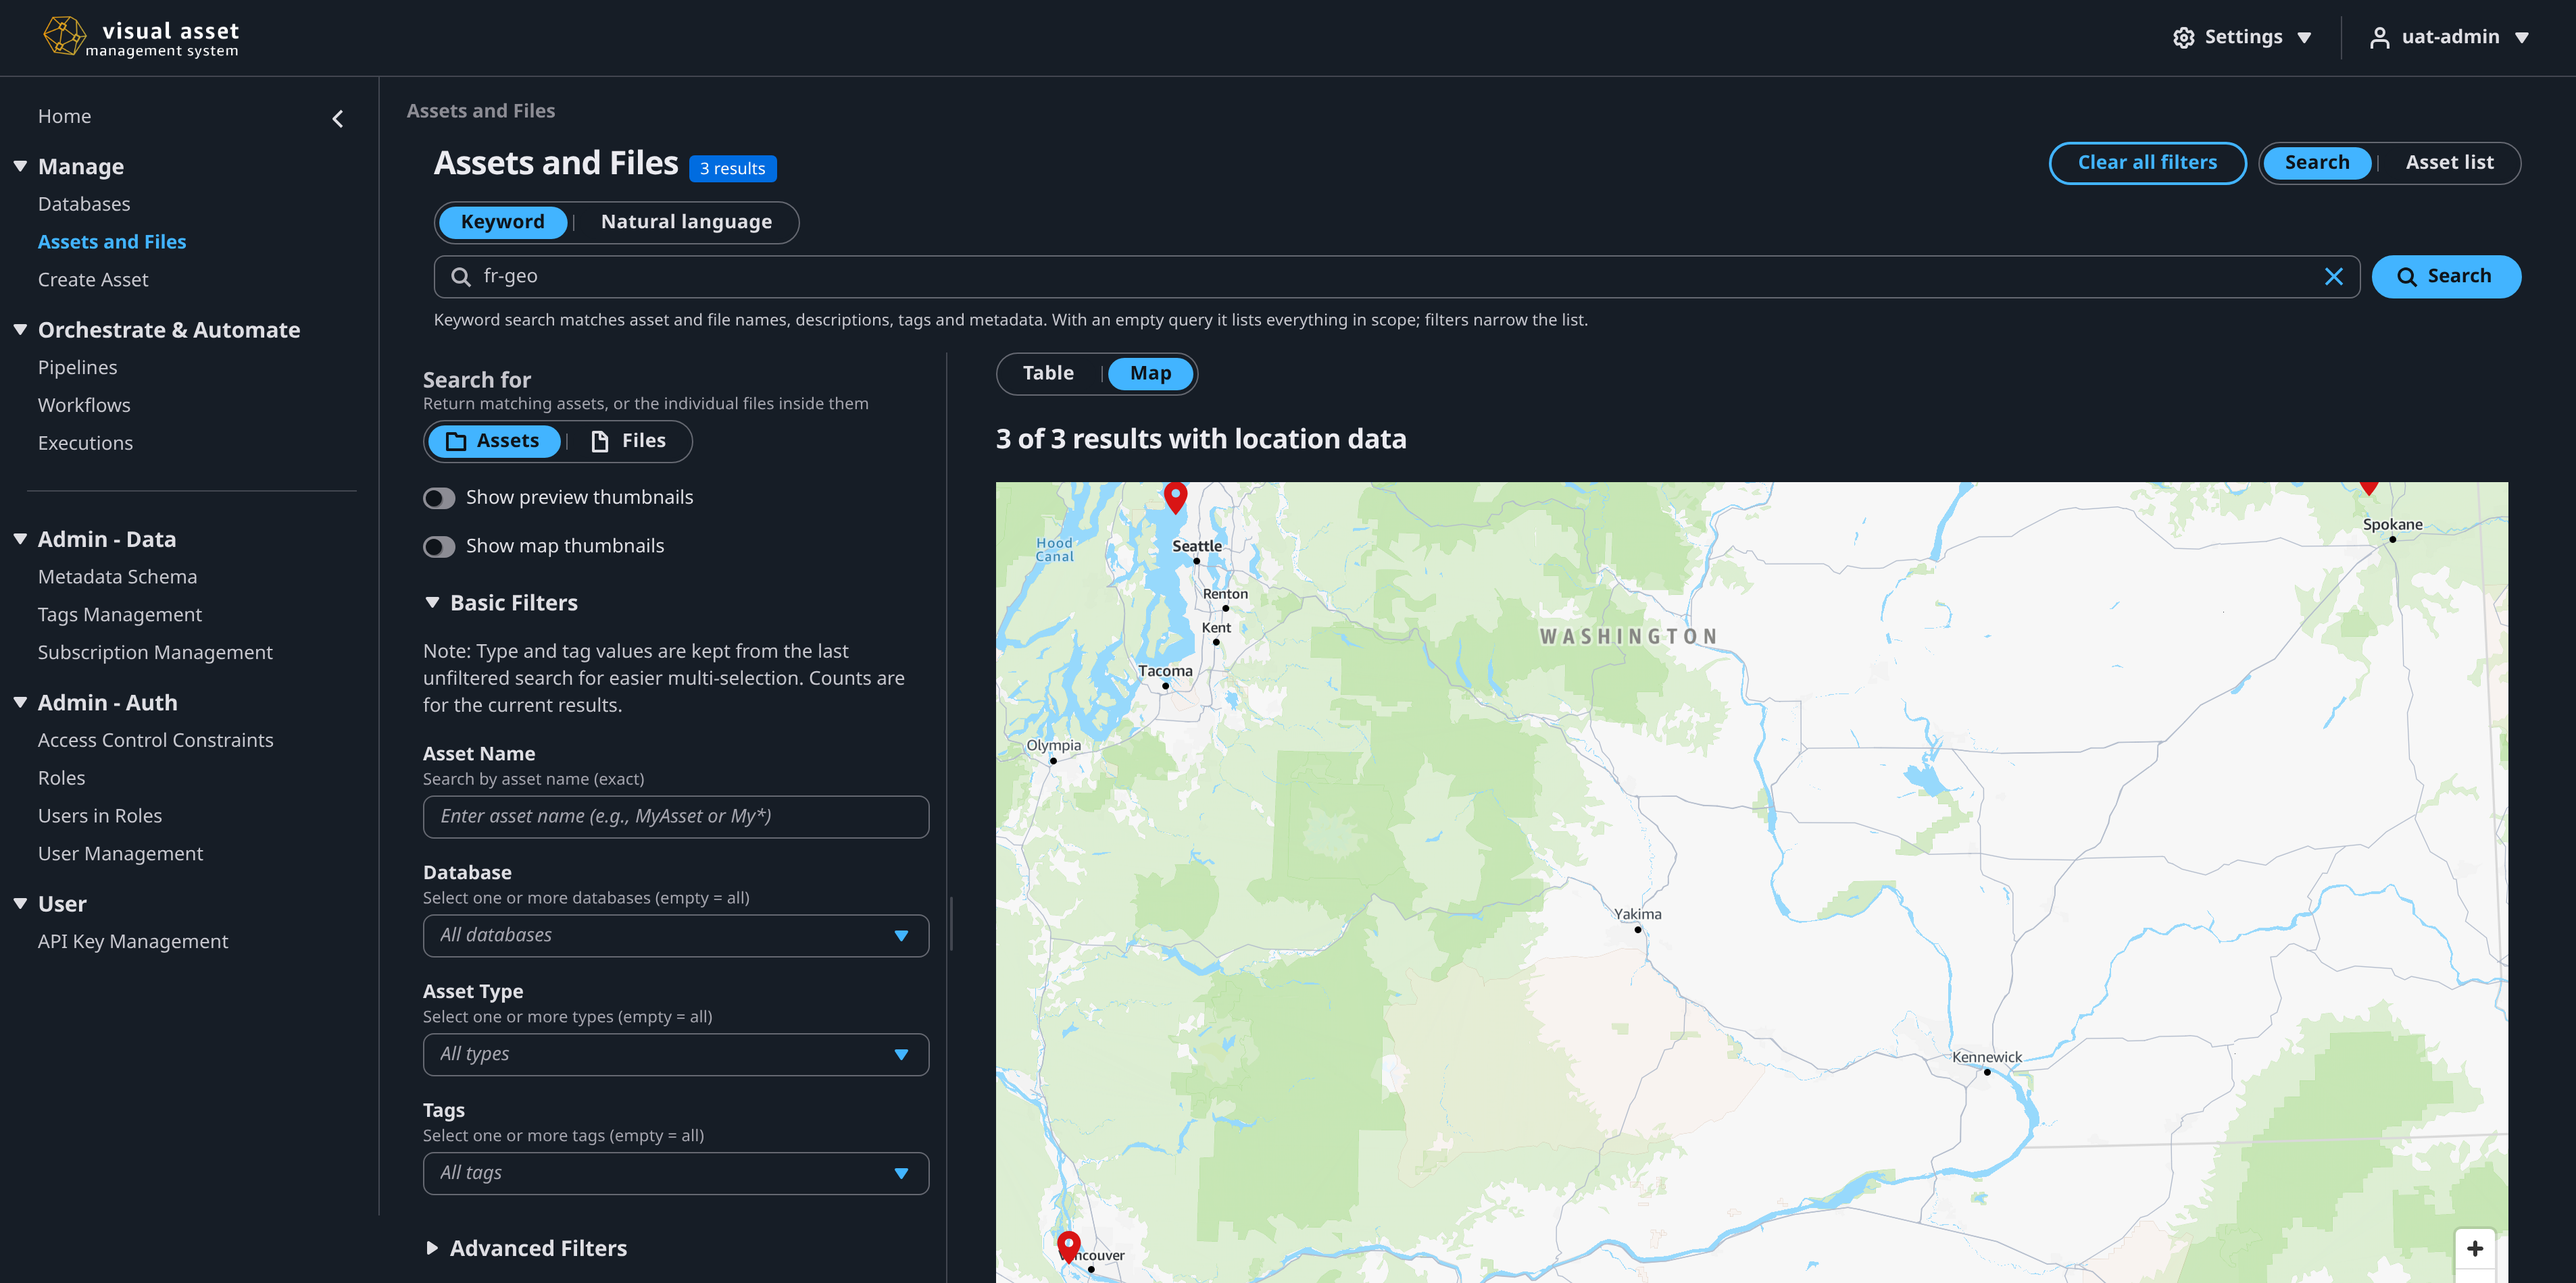
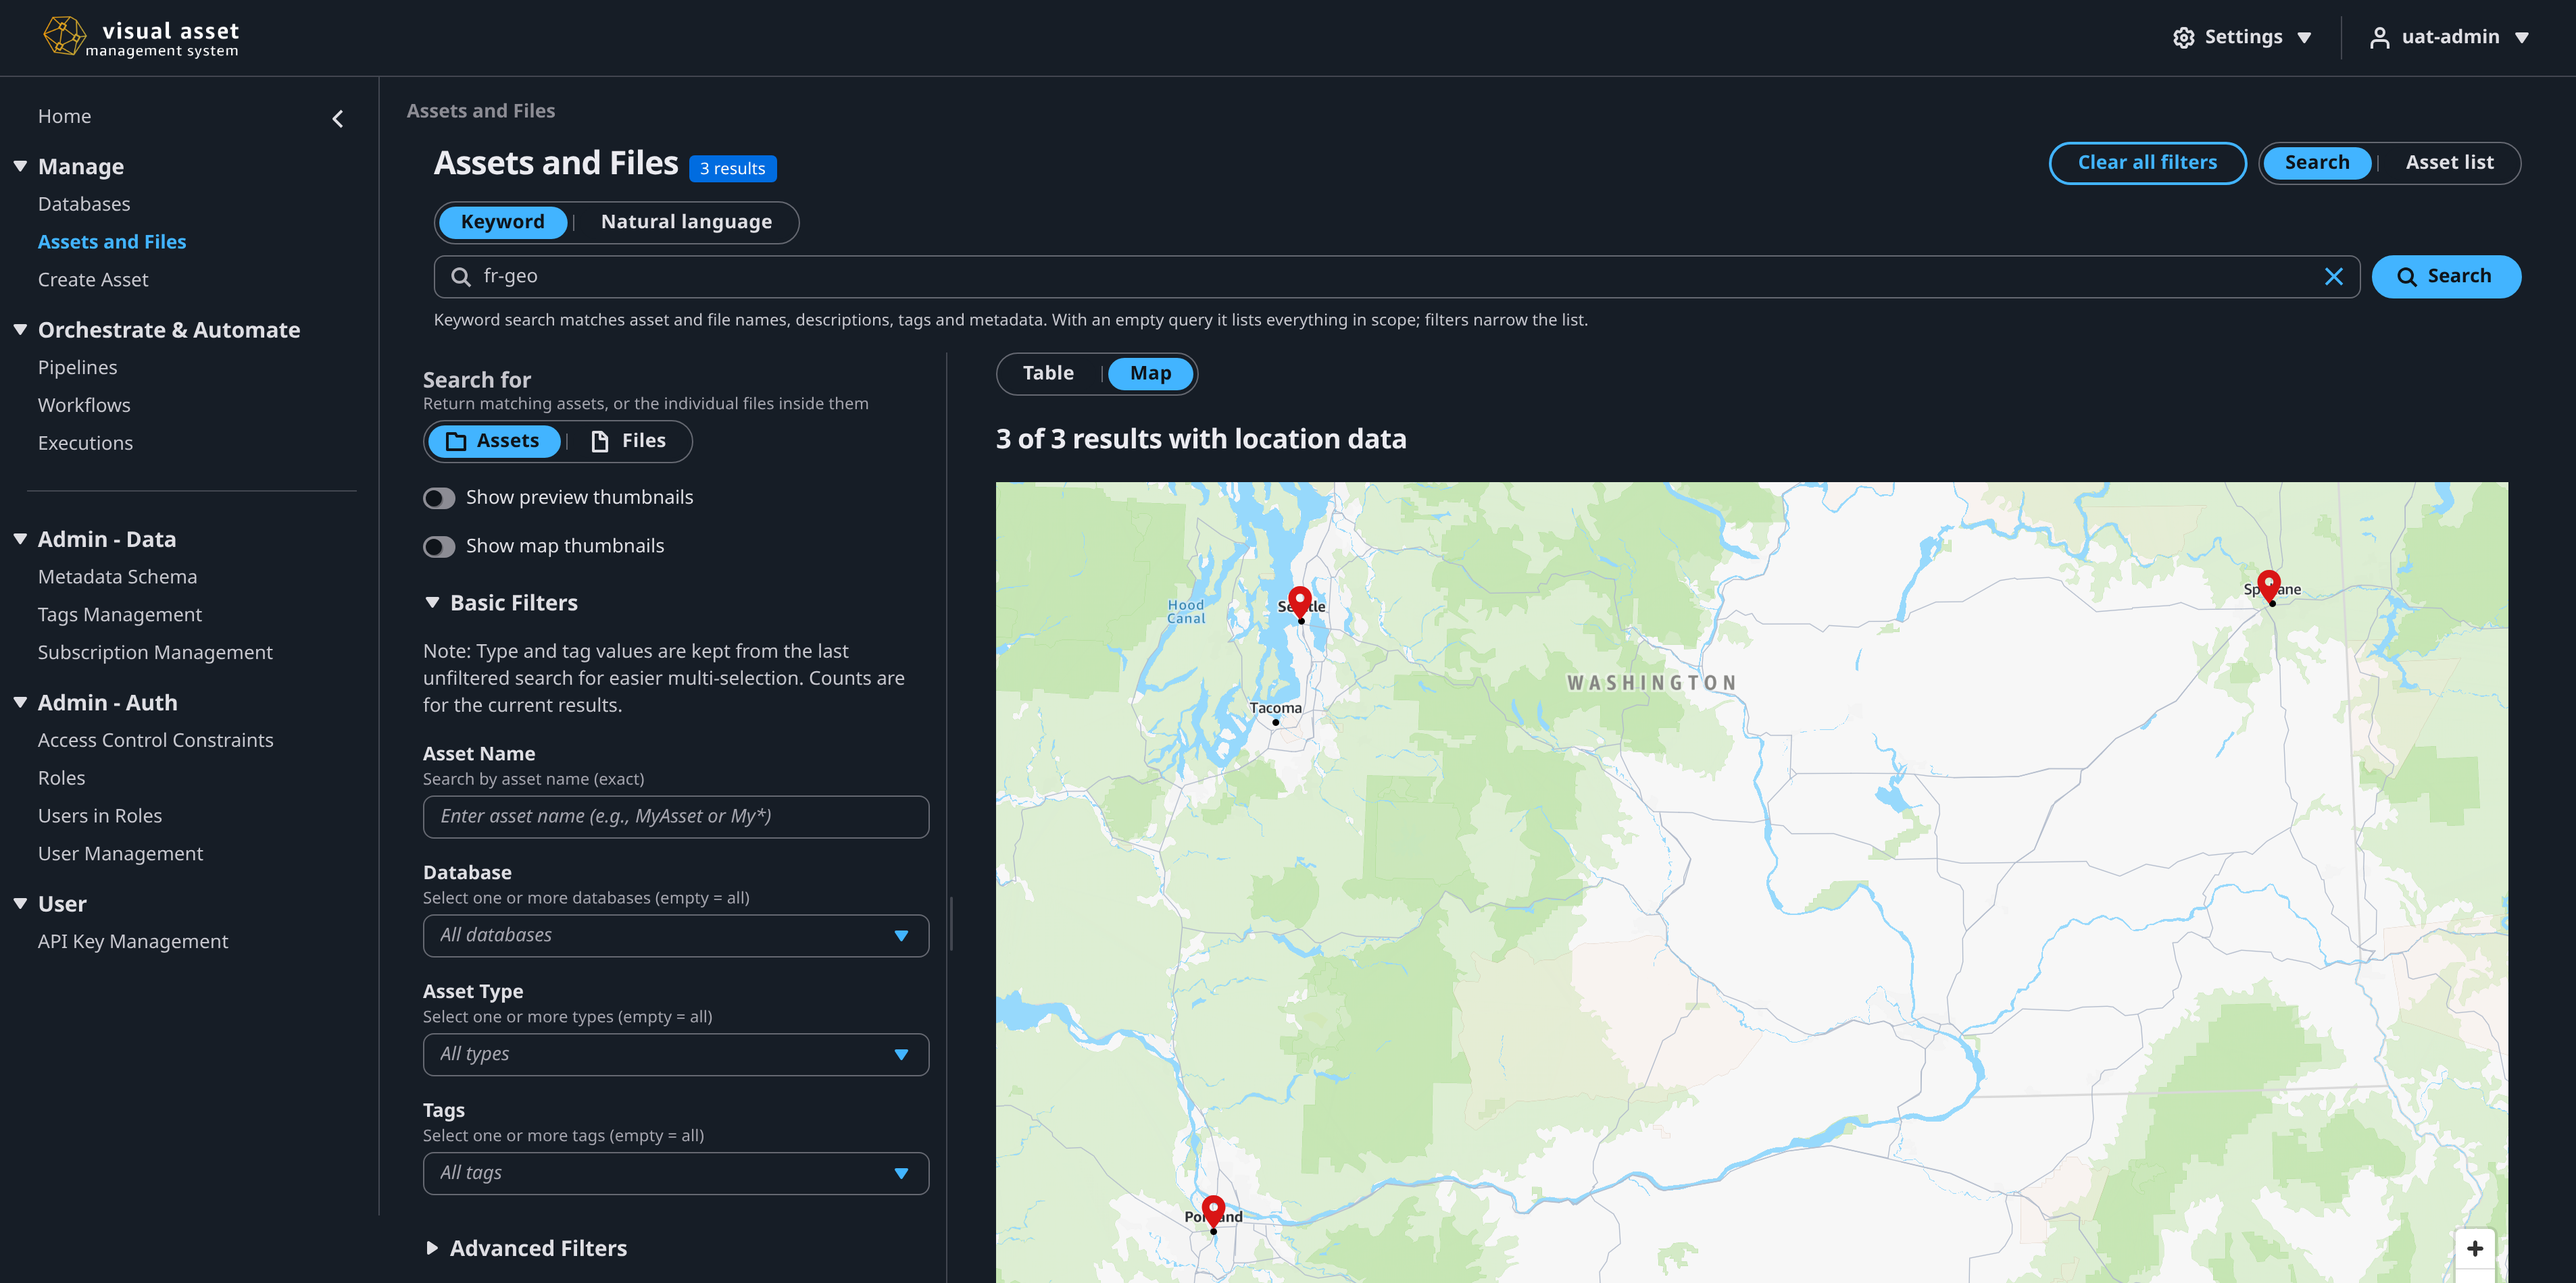
Retake the search Map view screenshot with the pins on their locations (#1306)
The earlier capture showed the pins above and left of their cities and one
pin cut off at the map's top edge. The new capture uses the same theme,
viewport and data, with each pin's tip on its city and all three pins inside
the map.

diff --git a/documentation/docusaurus-site/docs/user-guide/search-and-discovery.md b/documentation/docusaurus-site/docs/user-guide/search-and-discovery.md
@@ -182,7 +182,7 @@ In natural-language mode the map shows the same page of the natural-language ans
 
 GeoJSON polygons and multi-polygons are rendered as filled shapes with outline borders. Points are rendered as map markers.
 
-![Map view with three asset results plotted as markers on a map of Washington State, under the line 3 of 3 results with location data](/img/asset_search_mapView__dark_20261110_v2.7.png)
+![Map view with three asset results plotted as markers on Seattle, Spokane and Portland, under the line 3 of 3 results with location data](/img/asset_search_mapView__dark_20261110_v2.7.png)
 
 ### Geospatial filter
 
